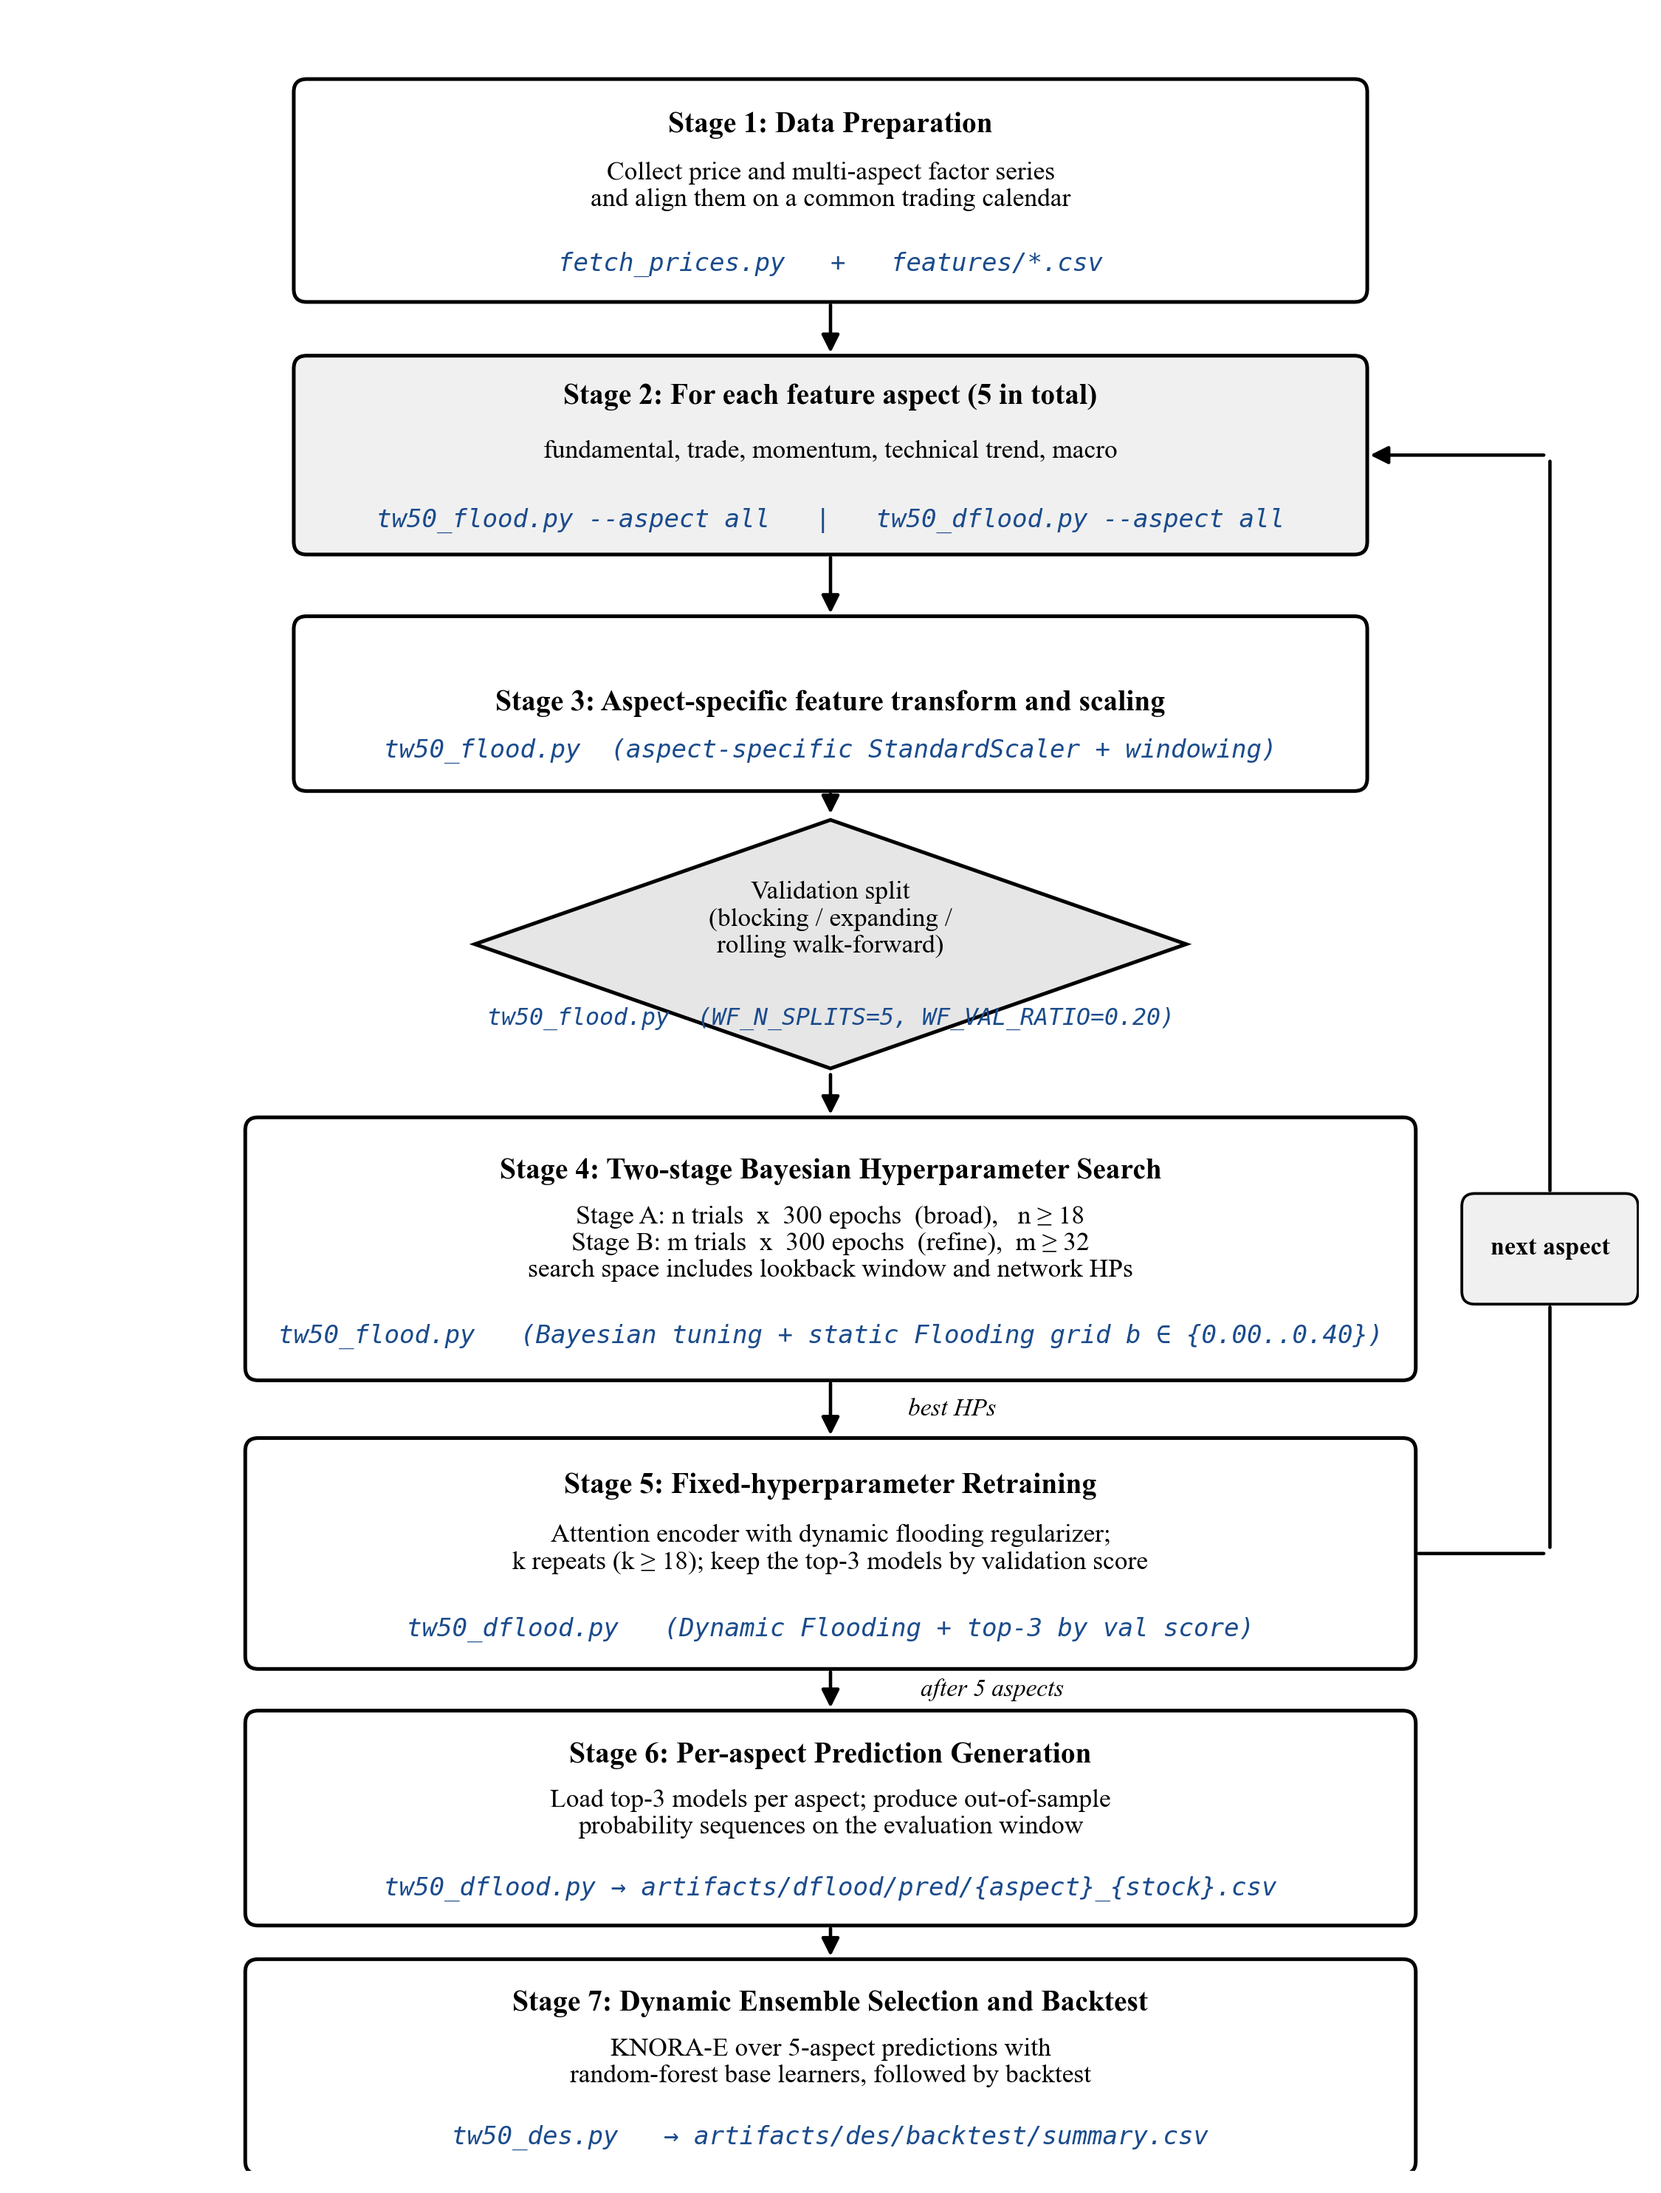
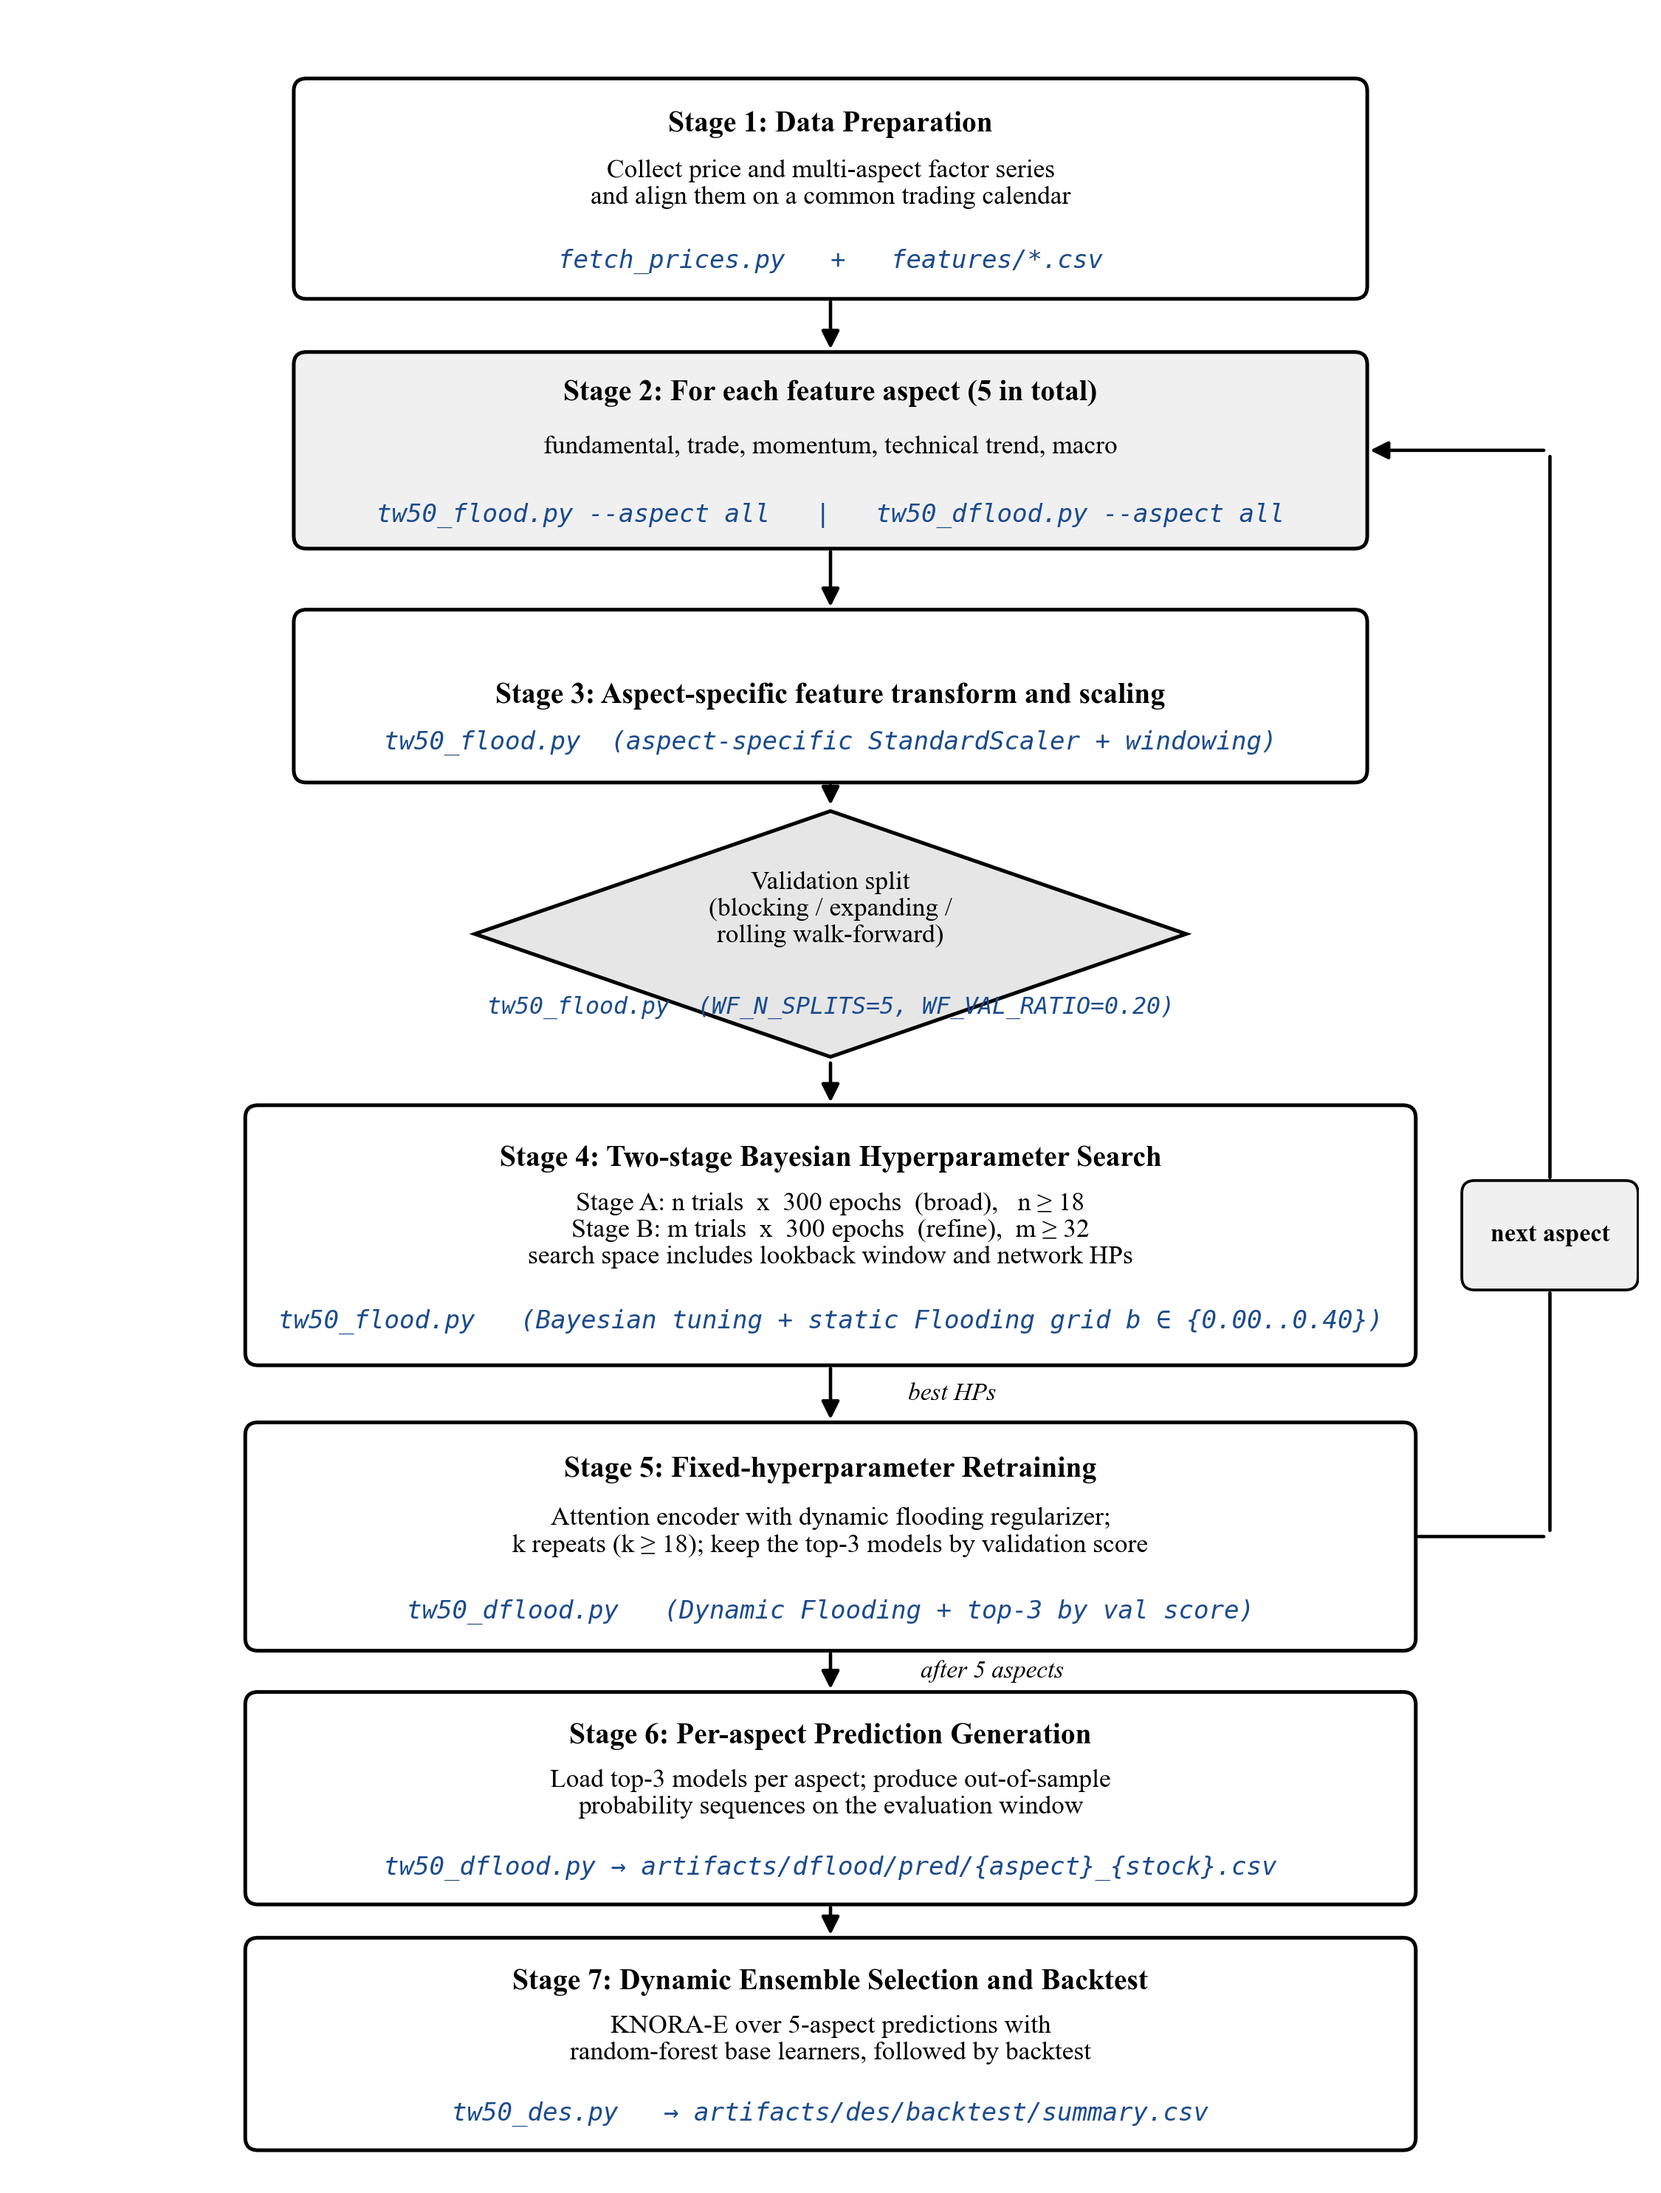
docs: fix Stage 7 box bottom border clipped by y-axis lower bound in training_pipeline.png

diff --git a/docs/_render_training_pipeline.py b/docs/_render_training_pipeline.py
@@ -109,7 +109,7 @@ def main() -> None:
     fig.patch.set_facecolor(BG)
     ax.set_facecolor(BG)
     ax.set_xlim(0, 10)
-    ax.set_ylim(0.0, 13.4)
+    ax.set_ylim(-0.15, 13.4)
     ax.axis("off")
 
     _box(
